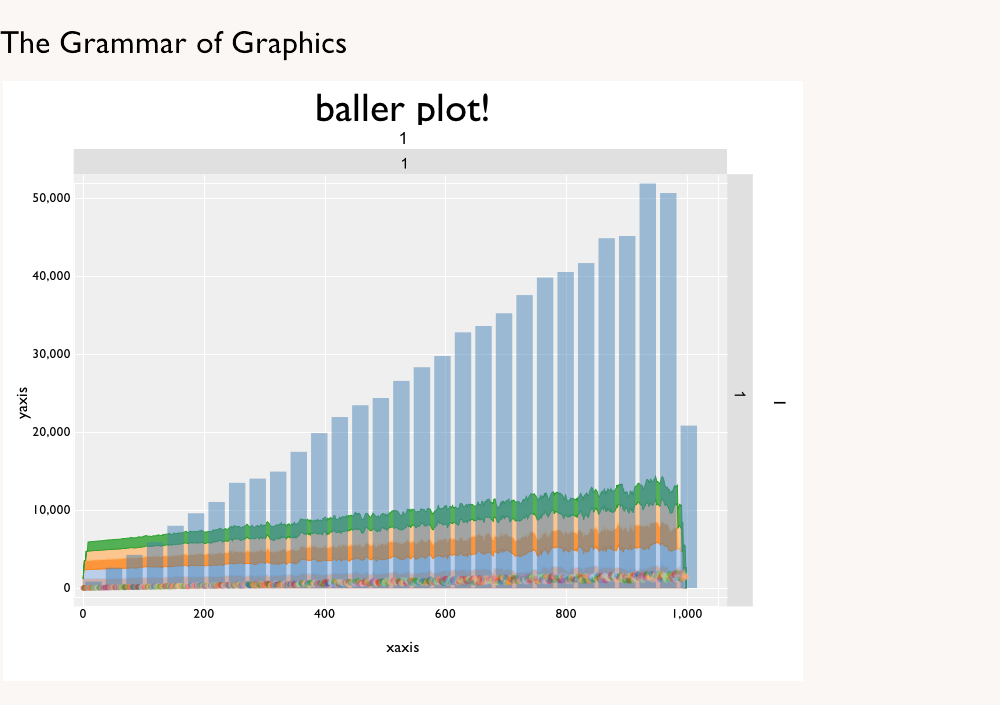
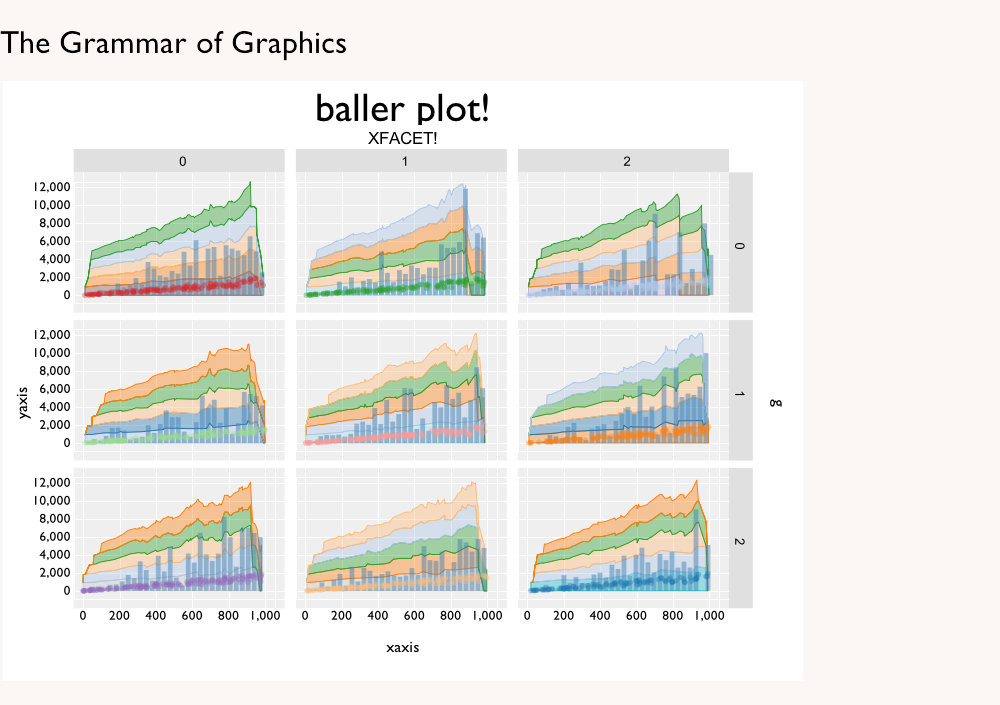
updated screenshot

diff --git a/src/js/newexamples.js b/src/js/newexamples.js
@@ -52,7 +52,7 @@
       }
 
       ],
-      //facets: {x: 'f', y: 'g', xLabel: "XFACET!", fontSize: "10pt"},
+      facets: {x: 'f', y: 'g', xLabel: "XFACET!", fontSize: "10pt"},
       scales: {
         x: {type: 'linear'},
        y: {type: 'linear'},//, lim: [0, 500]},
